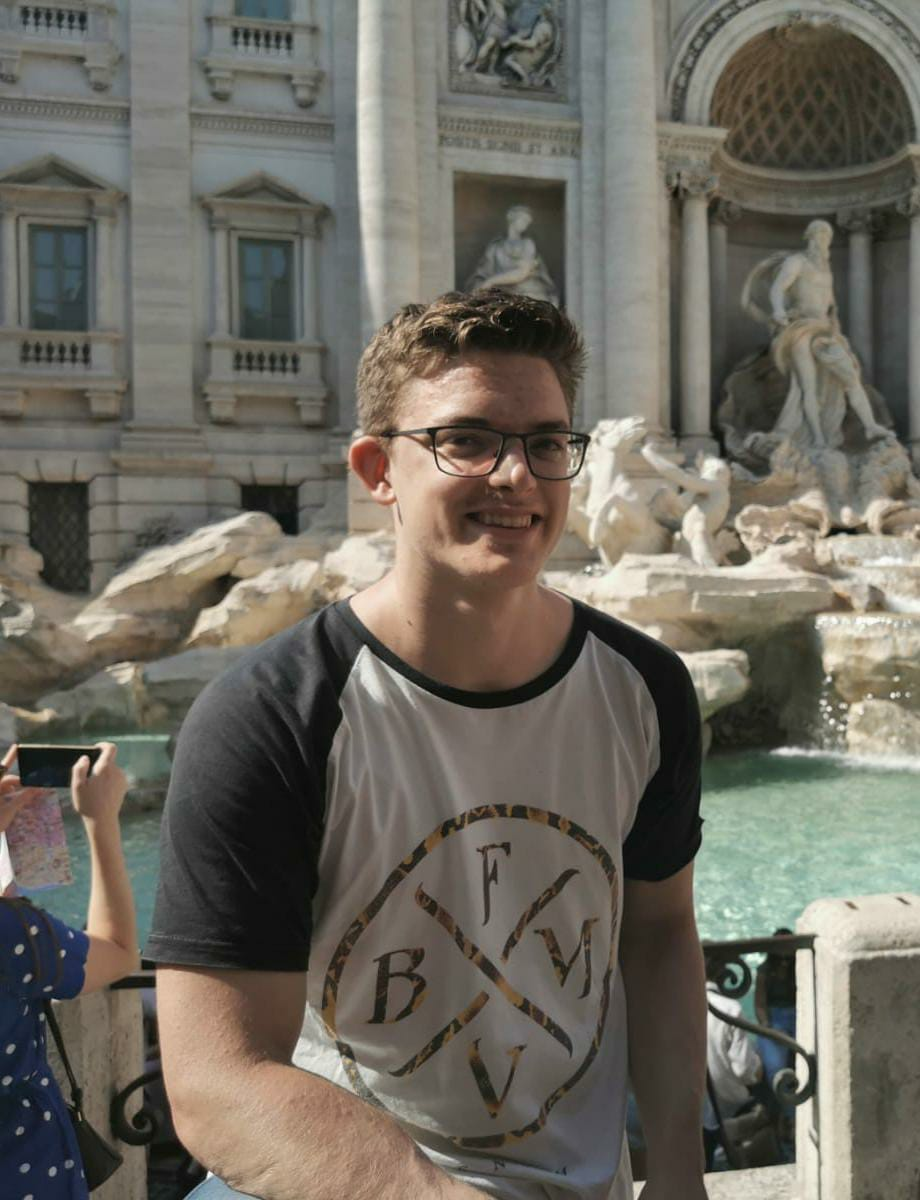
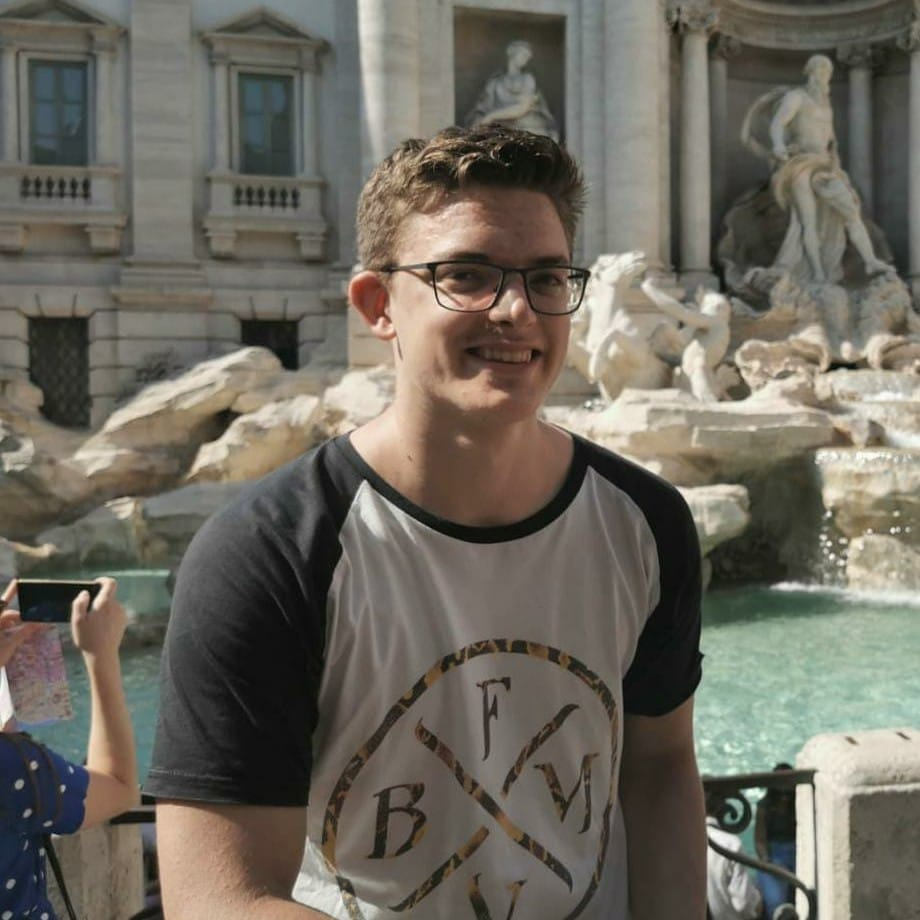
replaced pictures with 1:1 scaled ones. Commented another section on travel reimbursement

diff --git a/out/contact.html b/out/contact.html
@@ -222,7 +222,7 @@
 <p><em>Natuurwetenschappelijke Studievereniging Amsterdam</em><br>t.a.v. LIMO 2022<br />
 Science Park 904 &nbsp; A0.08<br />
 1098XH &nbsp; Amsterdam</p>
-<p>E-mail: <a href="mailto:&#x6c;&#105;&#x6d;&#x6f;&#64;&#110;&#x73;&#x61;&#x77;&#x65;&#x62;&#46;&#110;&#x6c;">&#x6c;&#105;&#x6d;&#x6f;&#64;&#110;&#x73;&#x61;&#x77;&#x65;&#x62;&#46;&#110;&#x6c;</a>  </p>
+<p>E-mail: <a href="mailto:&#x6c;&#x69;&#x6d;&#111;&#64;&#110;&#115;&#97;&#119;&#101;&#x62;&#46;&#110;&#108;">&#x6c;&#x69;&#x6d;&#111;&#64;&#110;&#115;&#97;&#119;&#101;&#x62;&#46;&#110;&#108;</a>  </p>
 <h3 id="routebeschrijving">Routebeschrijving</h3>
 <h5 id="vervoer-per-trein">Vervoer per trein</h5>
 <p>NS-station Amsterdam Science Park is op loopafstand van het FNWI-gebouw. Kijk op de <a href="https://www.ns.nl/reisplanner#/" target = "_blank">reisplanner</a> van de NS voor de dienstregeling.</p>
@@ -238,8 +238,6 @@ Na 400 meter rijdt u onder NS-station Amsterdam Science Park door en kruist u de
 <h5 id="parkeren">Parkeren</h5>
 <p>Op Amsterdam Science Park kunt u de bewegwijzering volgen naar de juiste parkeerterreinen. U kunt parkeren op de openbare parkeerterreinen P3 of P7 en op de parkeerterreinen rondom de onderzoeksinstituten. 
 Volg hiervoor de borden met een &#39;&#39;P&quot;. Let wel, vol = vol </p>
-<h3 id="declareren-reiskosten">Declareren reiskosten</h3>
-<p>Het is mogelijk om reiskosten te declareren, zoals in het <a href="reglement.html">reglement</a> vermeld staat, tenzij anders overeengekomen met de commissie.</p>
 <h3 id="kaart">Kaart</h3>
 <center><img style="max-width: 100%" src="img/kaart.png" /></center>
 

diff --git a/src/render/contact.html.md b/src/render/contact.html.md
@@ -36,8 +36,8 @@ Na 400 meter rijdt u onder NS-station Amsterdam Science Park door en kruist u de
 Op Amsterdam Science Park kunt u de bewegwijzering volgen naar de juiste parkeerterreinen. U kunt parkeren op de openbare parkeerterreinen P3 of P7 en op de parkeerterreinen rondom de onderzoeksinstituten. 
 Volg hiervoor de borden met een ''P". Let wel, vol = vol 
 
-### Declareren reiskosten
-Het is mogelijk om reiskosten te declareren, zoals in het <a href="reglement.html">reglement</a> vermeld staat, tenzij anders overeengekomen met de commissie.
+[//]: # (### Declareren reiskosten
+Het is mogelijk om reiskosten te declareren, zoals in het <a href="reglement.html">reglement</a> vermeld staat, tenzij anders overeengekomen met de commissie.)
 
 ### Kaart
 <center><img style="max-width: 100%" src="img/kaart.png" /></center>
